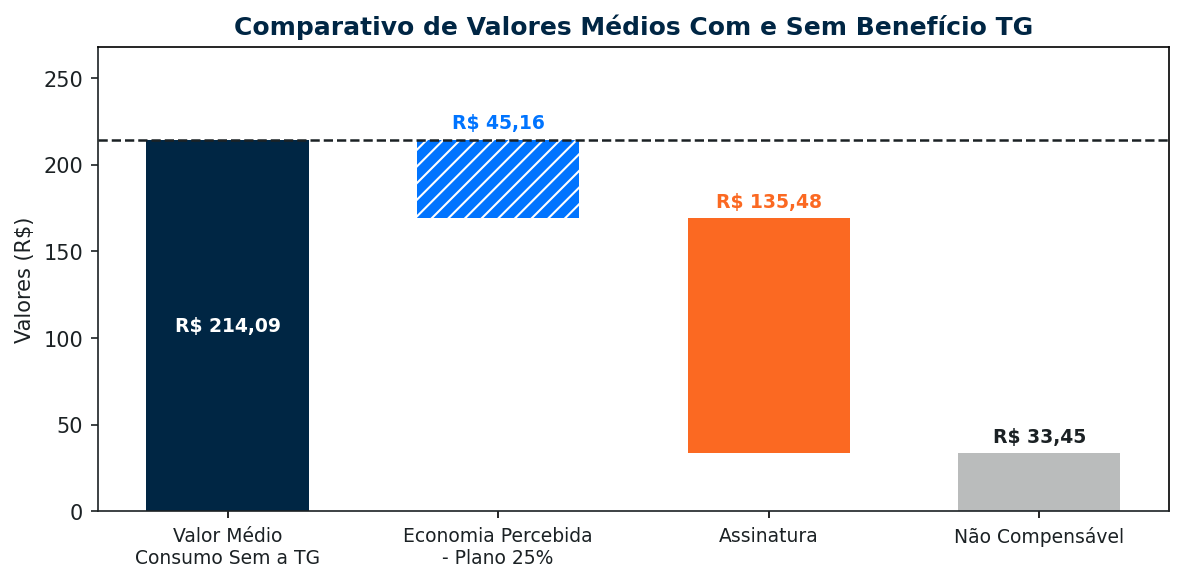
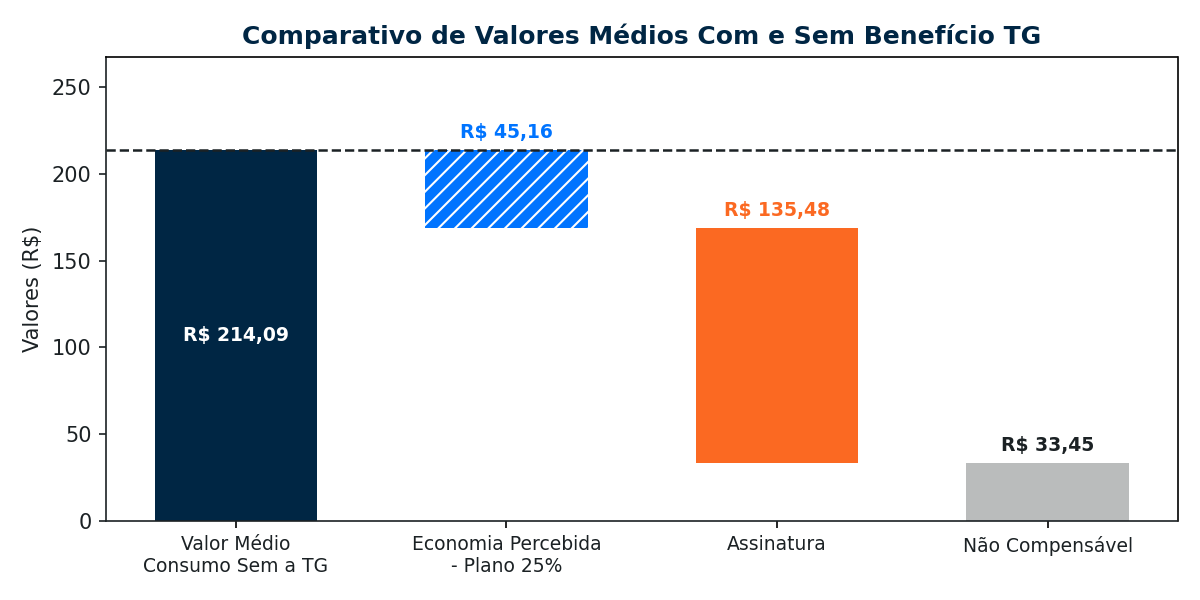
Implementação do ajuste de finders que não existem em pipeline 36

Changed region(s): [[0.0, 0.0309, 1.0, 0.9897], [0.5625, 0.3093, 0.7188, 0.8041]]

diff --git a/charts/chart_distribuicao_parceiro.py b/charts/chart_distribuicao_parceiro.py
@@ -60,23 +60,20 @@ def gerar_distribuicao_parceiro(finder_name, assinatura, assinatura_fechados=0.0
         # - Plano 15% -> 30% em Mar/2026
         # - Plano 20% -> 100% em Mar/2026
         # - Plano 25% -> 100% em Mar/2026 e 100% em Mar/2027
-        #
+
         # Regras ESPECIAIS se o deal tiver INTERN0 no Finder:
         # - Plano 15% -> 15% Mar/2026
         # - Plano 85% -> 85% Mar/2026
         # - Plano 25% -> 85% Mar/2026 e 85% Mar/2027
 
         if deals_fechados:
-            assinatura_total = (
-                assinatura if assinatura and float(assinatura) > 0
-                else sum(float(d.get('assinatura', 0) or 0) for d in deals_fechados)
-            )
-
-            # Prospecção (mantém comportamento antigo do Gold)
-            if idx_mar_2026 is not None:
-                valores[idx_mar_2026] = assinatura_total
-            if idx_mar_2027 is not None:
-                valores[idx_mar_2027] = assinatura_total
+            # Prospecção (mantém comportamento antigo do Gold) - APENAS se assinatura > 0
+            if assinatura and float(assinatura) > 0:
+                assinatura_val = float(assinatura)
+                if idx_mar_2026 is not None:
+                    valores[idx_mar_2026] = assinatura_val
+                if idx_mar_2027 is not None:
+                    valores[idx_mar_2027] = assinatura_val
 
             for deal in deals_fechados:
                 if not isinstance(deal, dict):
@@ -124,15 +121,13 @@ def gerar_distribuicao_parceiro(finder_name, assinatura, assinatura_fechados=0.0
         # (SEM tratamento especial de Interno)
 
         if deals_fechados:
-            assinatura_total = (
-                assinatura if assinatura and float(assinatura) > 0
-                else sum(float(d.get('assinatura', 0) or 0) for d in deals_fechados)
-            )
-
-            if idx_mar_2026 is not None:
-                valores[idx_mar_2026] = assinatura_total * 0.85
-            if idx_mar_2027 is not None:
-                valores[idx_mar_2027] = assinatura_total * 0.85
+            # Em Prospecção - APENAS se assinatura > 0
+            if assinatura and float(assinatura) > 0:
+                assinatura_val = float(assinatura)
+                if idx_mar_2026 is not None:
+                    valores[idx_mar_2026] = assinatura_val * 0.85
+                if idx_mar_2027 is not None:
+                    valores[idx_mar_2027] = assinatura_val * 0.85
 
             for deal in deals_fechados:
                 if not isinstance(deal, dict):
@@ -176,15 +171,13 @@ def gerar_distribuicao_parceiro(finder_name, assinatura, assinatura_fechados=0.0
         # (SEM tratamento especial de Interno)
 
         if deals_fechados:
-            assinatura_total = (
-                assinatura if assinatura and float(assinatura) > 0
-                else sum(float(d.get('assinatura', 0) or 0) for d in deals_fechados)
-            )
-
-            if idx_mar_2026 is not None:
-                valores[idx_mar_2026] = assinatura_total * 0.5
-            if idx_mar_2027 is not None:
-                valores[idx_mar_2027] = assinatura_total * 0.5
+            # Em Prospecção - APENAS se assinatura > 0
+            if assinatura and float(assinatura) > 0:
+                assinatura_val = float(assinatura)
+                if idx_mar_2026 is not None:
+                    valores[idx_mar_2026] = assinatura_val * 0.5
+                if idx_mar_2027 is not None:
+                    valores[idx_mar_2027] = assinatura_val * 0.5
 
             for deal in deals_fechados:
                 if not isinstance(deal, dict):
@@ -227,21 +220,22 @@ def gerar_distribuicao_parceiro(finder_name, assinatura, assinatura_fechados=0.0
         ]
 
         if deals_fechados:
-            assinatura_total = (
-                assinatura if assinatura and float(assinatura) > 0
-                else sum(float(d.get('assinatura', 0) or 0) for d in deals_fechados)
-            )
+            # Em prospecção mantemos visibilidade em Abr/2026/Abr/2027 - APENAS se assinatura > 0
+            if assinatura and float(assinatura) > 0:
+                assinatura_val = float(assinatura)
+                if idx_mar_2026 is not None:
+                    valores[idx_mar_2026] = assinatura_val * 0.51
+                if idx_mar_2027 is not None:
+                    valores[idx_mar_2027] = assinatura_val * 0.51
 
-            # Em prospecção mantemos visibilidade em Abr/2026/Abr/2027
-            if idx_mar_2026 is not None:
-                valores[idx_mar_2026] = assinatura_total * 0.51
-            if idx_mar_2027 is not None:
-                valores[idx_mar_2027] = assinatura_total * 0.51
+                # meses recorrentes com 1% em Prospecção
+                for i, mes in enumerate(meses):
+                    if mes in meses_1pct:
+                        valores[i] = assinatura_val * 0.01
 
-            # meses recorrentes com 1%
+            # meses recorrentes com 1% em FECHADOS (aplicar sempre, independente de assinatura)
             for i, mes in enumerate(meses):
                 if mes in meses_1pct:
-                    valores[i] = assinatura_total * 0.01
                     base_vals[i] = assinatura_fechados * 0.01
 
             # aplica alocação por-deal conforme plano
@@ -287,25 +281,31 @@ def gerar_distribuicao_parceiro(finder_name, assinatura, assinatura_fechados=0.0
     elif "exsat" in finder_lower:
         # Exsat: aplica percentuais maiores no mês-chave e recorrência 2% nos demais meses
         if deals_fechados:
-            assinatura_total = (
-                assinatura if assinatura and float(assinatura) > 0
-                else sum(float(d.get('assinatura', 0) or 0) for d in deals_fechados)
-            )
+            # Em Prospecção - APENAS se assinatura > 0
+            if assinatura and float(assinatura) > 0:
+                assinatura_val = float(assinatura)
+                if idx_mar_2026 is not None:
+                    valores[idx_mar_2026] = assinatura_val * 1.02
+                if idx_mar_2027 is not None:
+                    valores[idx_mar_2027] = assinatura_val * 1.02
 
-            if idx_mar_2026 is not None:
-                valores[idx_mar_2026] = assinatura_total * 1.02
-            if idx_mar_2027 is not None:
-                valores[idx_mar_2027] = assinatura_total * 1.02
+                # recorrência 2% nos meses a partir do mês seguinte ao mês de aplicação
+                # (inicia em idx_mar_2026 + 1). Não pré-pendemos meses anteriores.
+                if idx_mar_2026 is not None:
+                    start_idx = idx_mar_2026 + 1
+                    for i in range(start_idx, len(meses)):
+                        # não aplicar no(s) meses de aplicação (caso coincidam)
+                        if i == idx_mar_2026 or i == idx_mar_2027:
+                            continue
+                        valores[i] = assinatura_val * 0.02
 
-            # recorrência 2% nos meses a partir do mês seguinte ao mês de aplicação
-            # (inicia em idx_mar_2026 + 1). Não pré-pendemos meses anteriores.
+            # recorrência 2% em FECHADOS (aplicar sempre, independente de assinatura)
             if idx_mar_2026 is not None:
                 start_idx = idx_mar_2026 + 1
                 for i in range(start_idx, len(meses)):
                     # não aplicar no(s) meses de aplicação (caso coincidam)
                     if i == idx_mar_2026 or i == idx_mar_2027:
                         continue
-                    valores[i] = assinatura_total * 0.02
                     base_vals[i] = base_vals[i] + (assinatura_fechados * 0.02)
             else:
                 # fallback conservador: se não souber o índice, não aplicar recorrência
@@ -410,7 +410,9 @@ def gerar_distribuicao_parceiro(finder_name, assinatura, assinatura_fechados=0.0
 
     plt.tight_layout()
     distrib_chart_path = os.path.join("chart_distribuicao_parceiro.png")
-    plt.savefig(distrib_chart_path, dpi=150, bbox_inches="tight")
+    # Salva sem usar bbox_inches="tight" para evitar cálculo errado de dimensões
+    # quando há muitos rótulos rotacionados. Usa pad_inches para margem
+    plt.savefig(distrib_chart_path, dpi=150, pad_inches=0.3)
     plt.close()
 
     return distrib_chart_path

diff --git a/debug_finder_missing.py b/debug_finder_missing.py
@@ -1,0 +1,110 @@
+"""
+Script de debug para investigar por que o finder "03 - Plus - MONTTEREY (Bruno Ribeiro)"
+não aparece nos relatórios.
+
+Hipótese: Ele existe apenas no PIPELINE_FECHADOS, não no PIPELINE_PROSPECCAO.
+O main.py itera apenas sobre os finders de PIPELINE_PROSPECCAO, ignorando finders que
+só existem em PIPELINE_FECHADOS.
+"""
+
+from services.pipedrive_service import analyze_deals_in_pipeline
+from config import API_TOKEN, PIPELINE_PROSPECCAO, FILTER_PROSPECCAO, PIPELINE_FECHADOS, FILTER_FECHADOS, CUSTOM_FIELD_KEYS
+
+def debug_finder_coverage():
+    print("=" * 80)
+    print("DEBUG: Investigando cobertura de Finders nos dois pipelines")
+    print("=" * 80)
+
+    # Extrai deals do PIPELINE_PROSPECCAO
+    print("\n[1] Extraindo deals do PIPELINE_PROSPECCAO (36)...")
+    deals_by_finder_prosp, deals_prospeccao = analyze_deals_in_pipeline(
+        API_TOKEN, PIPELINE_PROSPECCAO, FILTER_PROSPECCAO, CUSTOM_FIELD_KEYS, calcular_totais=True
+    )
+    
+    finders_prospeccao = set(deals_by_finder_prosp.keys()) if deals_by_finder_prosp else set()
+    print(f"    Total de finders em PROSPECCAO: {len(finders_prospeccao)}")
+    print(f"    Finders encontrados:")
+    for finder in sorted(finders_prospeccao):
+        print(f"      - {finder}")
+
+    # Extrai deals do PIPELINE_FECHADOS
+    print("\n[2] Extraindo deals do PIPELINE_FECHADOS (37)...")
+    deals_by_finder_fechados, deals_fechados = analyze_deals_in_pipeline(
+        API_TOKEN, PIPELINE_FECHADOS, FILTER_FECHADOS, CUSTOM_FIELD_KEYS, calcular_totais=True
+    )
+    
+    finders_fechados = set(deals_by_finder_fechados.keys()) if deals_by_finder_fechados else set()
+    print(f"    Total de finders em FECHADOS: {len(finders_fechados)}")
+    print(f"    Finders encontrados:")
+    for finder in sorted(finders_fechados):
+        print(f"      - {finder}")
+
+    # Compara finders
+    print("\n[3] Análise comparativa:")
+    print("-" * 80)
+    
+    apenas_prospeccao = finders_prospeccao - finders_fechados
+    apenas_fechados = finders_fechados - finders_prospeccao
+    em_ambos = finders_prospeccao & finders_fechados
+    
+    print(f"\n    Finders APENAS em PROSPECCAO ({len(apenas_prospeccao)}):")
+    for finder in sorted(apenas_prospeccao):
+        print(f"      - {finder}")
+    
+    print(f"\n    Finders APENAS em FECHADOS ({len(apenas_fechados)}):")
+    for finder in sorted(apenas_fechados):
+        print(f"      - {finder}")
+    
+    print(f"\n    Finders em AMBOS os pipelines ({len(em_ambos)}):")
+    for finder in sorted(em_ambos):
+        print(f"      - {finder}")
+    
+    # Procura especificamente por "MONTTEREY"
+    print("\n[4] Procurando por 'MONTTEREY (Bruno Ribeiro)':")
+    print("-" * 80)
+    
+    target = "MONTTEREY (Bruno Ribeiro)"
+    found = False
+    
+    for finder in finders_prospeccao:
+        if target in finder:
+            print(f"    ✓ Encontrado em PROSPECCAO: {finder}")
+            found = True
+    
+    for finder in finders_fechados:
+        if target in finder:
+            print(f"    ✓ Encontrado em FECHADOS: {finder}")
+            found = True
+    
+    if not found:
+        print(f"    ✗ NÃO ENCONTRADO em nenhum pipeline")
+    
+    # Verifica o problema de geração de PDFs
+    print("\n[5] Problema no main.py:")
+    print("-" * 80)
+    print("""
+    LINHA 24-31 do main.py (loop de geração de PDFs):
+    
+        for finder_name, totals in deals_by_finder.items():
+            assinatura_fechados_val = deals_by_finder_fechados.get(finder_name, {}).get(...)
+            generate_pdf(
+                finder_name,
+                ...
+                deals_fechados.get(finder_name, []),  # <-- AQUI!
+            )
+    
+    O problema: O loop itera APENAS sobre finders de 'deals_by_finder' (PROSPECCAO).
+    Se um finder existe APENAS em FECHADOS, ele nunca será processado.
+    
+    Finders que SERÃO ignorados na geração de PDFs:
+    """)
+    
+    for finder in sorted(apenas_fechados):
+        print(f"      - {finder}")
+    
+    print(f"\n    Total de PDFs gerados: {len(deals_by_finder_prosp)} (apenas de PROSPECCAO)")
+    print(f"    Total de finders únicos (PROSPECCAO + FECHADOS): {len(em_ambos | apenas_prospeccao | apenas_fechados)}")
+    print(f"    Finders perdidos: {len(apenas_fechados)}")
+
+if __name__ == "__main__":
+    debug_finder_coverage()

diff --git a/reports/pdf_generator.py b/reports/pdf_generator.py
@@ -52,14 +52,18 @@ def generate_pdf(
     # === DADOS BÁSICOS ===
     sanitized_name = finder_name.replace(" ", "_").replace("/", "_")
     pdf_path = os.path.join(pasta_saida, f"{sanitized_name}.pdf")
-    # Garante que, para finders como 'indique', usemos o total de 'assinatura'
-    # proveniente de `deals_fechados` caso o agregado `assinatura` seja zero.
+    
+    # assinatura_display é usado apenas para exibição na tabela de dados
+    # Para o gráfico, usamos o assinatura original (0 se não houver em PROSPECCAO)
     try:
         assinatura_display = float(assinatura) if assinatura and float(assinatura) > 0 else sum(float(d.get('assinatura', 0) or 0) for d in (deals_fechados or []))
     except Exception:
         assinatura_display = assinatura
+    
+    # Para passar ao gráfico, usa o valor original de assinatura (sem fallback para deals_fechados)
+    assinatura_para_grafico = float(assinatura) if assinatura and float(assinatura) > 0 else 0
 
-    distrib_chart_path = gerar_distribuicao_parceiro(finder_name, assinatura_display, assinatura_fechados, deals_fechados)
+    distrib_chart_path = gerar_distribuicao_parceiro(finder_name, assinatura_para_grafico, assinatura_fechados, deals_fechados)
 
     # === PALHETA DE CORES ===
     COLOR_FATURA = "#002644"
@@ -137,7 +141,8 @@ def generate_pdf(
 
     plt.tight_layout()
     chart_path = "chart_main.png"
-    plt.savefig(chart_path, dpi=150, bbox_inches="tight")
+    # Salva sem bbox_inches="tight" para evitar cálculo errado de dimensões com rótulos
+    plt.savefig(chart_path, dpi=150, pad_inches=0.3)
     plt.close()
 
     # === CRIAÇÃO DO PDF ===

diff --git a/main.py b/main.py
@@ -20,7 +20,17 @@ def main():
     os.makedirs(r'C:\Users\Matheus\Documents\MeusProgramasPy\data_partners_request\mother_files', exist_ok=True)
 
     # --- PDFs por Finder (child_files) ---
-    for finder_name, totals in deals_by_finder.items():
+    # Itera sobre a UNIÃO de finders de ambos os pipelines (PROSPECCAO + FECHADOS)
+    # Assim garante que finders que existem APENAS em FECHADOS também geram PDFs
+    all_finders = set(deals_by_finder.keys()) | set(deals_by_finder_fechados.keys())
+    
+    for finder_name in sorted(all_finders):
+        totals = deals_by_finder.get(finder_name, {
+            "fatura_cheia": 0.0,
+            "assinatura": 0.0,
+            "nao_compensavel": 0.0,
+            "vinte_cinco_porcento": 0.0
+        })
         assinatura_fechados_val = deals_by_finder_fechados.get(finder_name, {}).get("assinatura_fechados", 0.0)
         generate_pdf(
             finder_name,
@@ -28,7 +38,7 @@ def main():
             totals["assinatura"],
             totals["nao_compensavel"],
             totals["vinte_cinco_porcento"],
-            deals_prospeccao[finder_name],
+            deals_prospeccao.get(finder_name, []),
             deals_fechados.get(finder_name, []),
             assinatura_fechados_val,
             pasta_saida=r'C:\Users\Matheus\Documents\MeusProgramasPy\data_partners_request\child_files'
